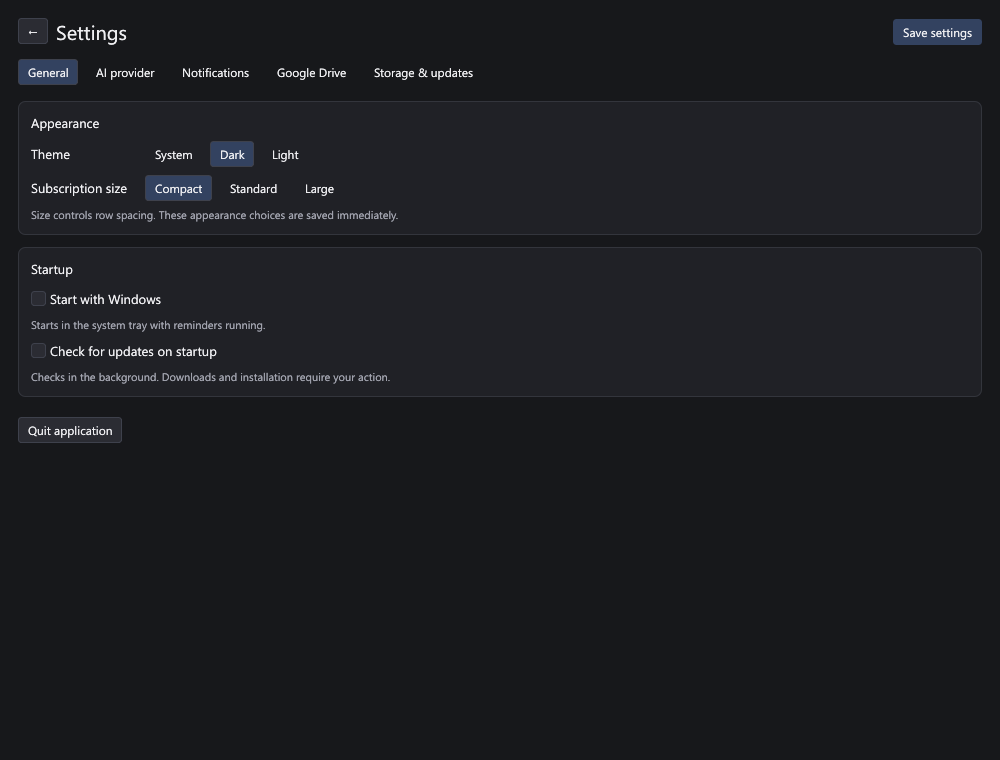
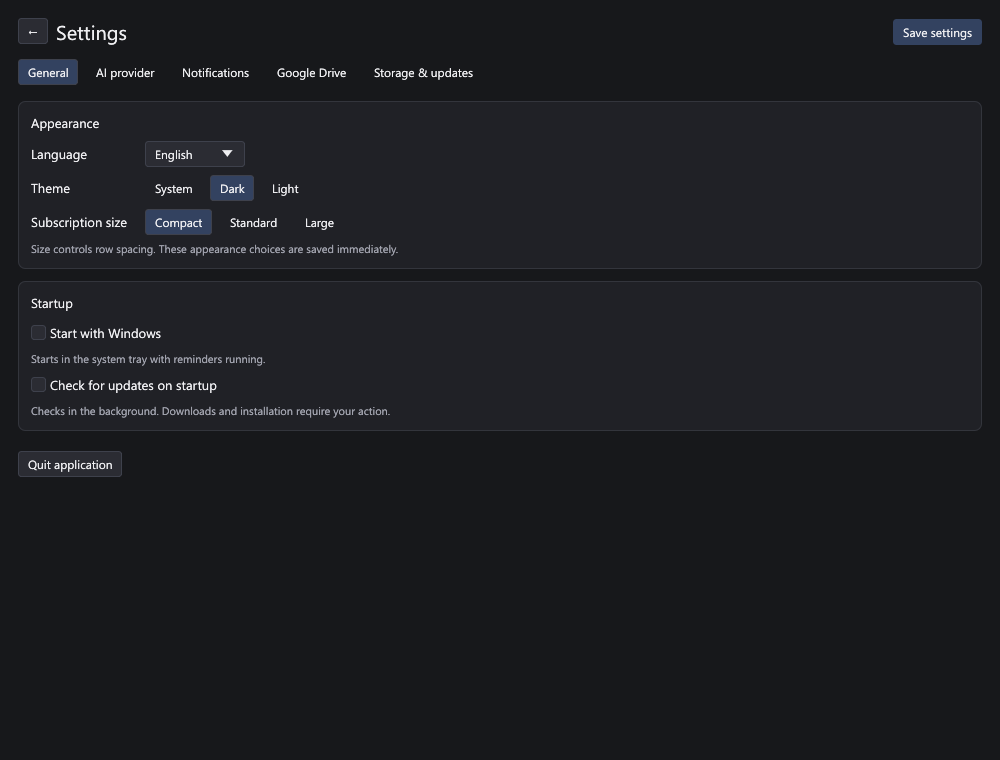
Prepare v0.6.0 notes with verified localized screenshots and lifecycle evidence

diff --git a/README.md b/README.md
@@ -22,6 +22,7 @@ A small Rust desktop app that keeps subscription expiry dates out of your head. 
 - Check for updates and download, verify, install, and restart from Settings.
 - Render on the CPU and present through Windows GDI, with event-driven redraws and no OpenGL or DirectX context.
 - Choose a neutral Light or Dark theme, or follow Windows with System mode.
+- Use the complete interface in English, Russian, French, German, Spanish, or Italian, including tray actions and reminders.
 
 ## Compact workspace
 
@@ -31,7 +32,7 @@ Settings are divided into **General**, **AI provider**, **Notifications**, **Goo
 
 ## Getting started
 
-1. Download `SubscriptionsReminder-v0.5.0.exe` from [Releases](https://github.com/siarheisinelnikau/subscriptions-reminder/releases).
+1. Download `SubscriptionsReminder-v0.6.0.exe` from [Releases](https://github.com/siarheisinelnikau/subscriptions-reminder/releases).
 2. Put it in a writable folder where you plan to keep it, then launch it.
 3. Click **Add subscription**. Enter its name, expiry date (`YYYY-MM-DD`), and reminder lead time.
 4. In **Settings → General**, optionally enable **Start with Windows**. Closing the window keeps the app running; use the tray icon or launch the EXE again to reopen it. **Quit application** in General or the tray menu stops reminders.
@@ -46,11 +47,15 @@ The computer must be on, you must be signed in, and the app must be running for 
 
 Open **Settings → General → Appearance** and choose **System**, **Dark**, or **Light**. The choice applies immediately and is saved on this computer without clicking Save settings. System is the default and follows Windows app appearance through native theme-change events. Theme changes do not change subscriptions or cloud data.
 
+The **Language** menu uses native names: **English**, **Русский**, **Français**, **Deutsch**, **Español**, and **Italiano**. Language changes also apply and save immediately, without restarting. English remains the complete default for new and older settings; unknown language preferences fall back to English. The language choice stays on this computer. Subscription names, notes, currencies, model IDs, and file paths keep their original content. Technical service and operating-system error details may remain in their original language.
+
 The dark palette and typography follow Multi-Monitor Brightness, with Segoe UI at 13 px for body text and 12 px for buttons; the light palette uses white and gray surfaces with contrasting text and status colors. Both themes cover the subscription table, settings, image import, dialogs, and Google Drive screen. The native title bar follows the selected appearance too.
 
 **Subscription size** offers **Compact**, **Standard**, and **Large** rows with 48, 64, and 80 logical pixels of height. The choice changes spacing while retaining the readable text size, applies immediately, and is saved locally. Compact is the default for existing and new settings without a saved size.
 
-![Light theme dashboard with demonstration subscriptions](docs/screenshots/theme-light.png)
+![German interface in Light theme with original demonstration subscription names](docs/screenshots/theme-light.png)
+
+![Russian General settings with immediate language and theme choices](docs/screenshots/language-russian.png)
 
 ## Settings and Telegram
 
@@ -142,7 +147,7 @@ The packaged EXE and `SHA256SUMS.txt` appear in `dist/`. The MSVC C runtime is s
 For isolated UI testing, use a separate local settings directory:
 
 ```powershell
-./dist/SubscriptionsReminder-v0.5.0.exe --data-dir ./target/manual-test --demo
+./dist/SubscriptionsReminder-v0.6.0.exe --data-dir ./target/manual-test --demo
 ```
 
 `--demo` inserts twelve sample subscriptions into an empty data store and disables automatic update checks and reminder notifications for that demo store. `--background` starts with the main window hidden. Instances share one window and monitor per settings directory.
@@ -150,13 +155,13 @@ For isolated UI testing, use a separate local settings directory:
 The opt-in native desktop regressions exercise the packaged EXE, actual window handles, and tray callback dispatch on an interactive Windows desktop:
 
 ```powershell
-$env:SUBSCRIPTIONS_GUI_EXE = (Resolve-Path ./dist/SubscriptionsReminder-v0.5.0.exe).Path
+$env:SUBSCRIPTIONS_GUI_EXE = (Resolve-Path ./dist/SubscriptionsReminder-v0.6.0.exe).Path
 cargo test --locked --test desktop -- --ignored --nocapture --test-threads=1
 ```
 
 Set `SUBSCRIPTIONS_RENDER_TRACE` to a local JSONL file to collect frame timings and counts. Batches are written outside the UI thread and contain performance measurements only. Tracing is disabled by default.
 
-`--image PATH` opens an image in the import view. Add `--recognize` to start recognition using the saved AI connection. For cursor-free documentation screenshots, `--capture-dir PATH` captures the actual subscription table, all five Settings tabs, image import, and the subscription editor, then exits. When recognition is active, the import capture waits for its result and saves a local `recognition.json` report alongside the PNGs.
+`--image PATH` opens an image in the import view. Add `--recognize` to start recognition using the saved AI connection. For cursor-free documentation screenshots, `--capture-dir PATH --demo --data-dir ISOLATED_PATH` captures the actual subscription table, all five Settings tabs, image import, and the subscription editor, then exits. Capture mode requires an explicit isolated demo directory and disables update checks, notifications, AI requests, and Google Drive for that run. Optional `--capture-language en|ru|fr|de|es|it` and `--capture-theme system|light|dark` select representative localized states without changing ordinary settings.
 
 The Windows workflow checks formatting, runs tests and Clippy, builds the EXE, and packages checksums. On `main`, a package version without a published release is published with `docs/releases/vVERSION.md` as its description. Existing published releases are never modified. Review and update the release notes before increasing the package version.
 

diff --git a/docs/verification.md b/docs/verification.md
@@ -66,3 +66,24 @@ All nine final EXE icon resources were decoded, checked for nonblank alpha/trans
 ![Window and taskbar icon handles matching executable resources](screenshots/icon-assignment.png)
 
 ![Production tray resource loaded with the native small-icon metric](screenshots/tray-metric.png)
+
+## v0.6.0 localization and appearance (2026-11-01)
+
+The six-language catalog contains 236 explicit messages, with English as the complete default and fallback. All 42 Rust tests passed with `cargo test --locked --offline --all-targets`; the three opt-in desktop input tests remained ignored. New regressions check every explicit UI catalog key, nonempty translations and interpolation slots, unknown/user-data preservation, language serialization, and migration of older settings without losing their theme or startup-update preference. Formatting, all-target Clippy with warnings denied, an optimized build, and packaging passed.
+
+The main/settings/import/Drive/editor, tray actions, reminder copy, theme and row-size names, and update controls use explicit lookups. The UI-literal audit leaves only stable widget IDs, product/service names, URLs, extensions, model IDs, and ISO date patterns. Technical service and operating-system error details remain untouched. Saved language and appearance changes request a finite repaint; they introduce no timer or polling loop. Google Drive stores canonical status messages for immediate retranslation.
+
+The final optimized `dist/SubscriptionsReminder-v0.6.0.exe` diagnostic used PID **40548** and exited normally after its finite 16.5-second lifecycle. Source inspection and runtime diagnostics identify **egui CPU software rasterization → softbuffer Win32 GDI**. The selected runtime module query returned only `gdi32.dll` among the checked graphics backends.
+
+| Settled state | Sample | CPU, one core | CPU, machine | Layouts / rasters / presents |
+| --- | --- | --- | --- | --- |
+| Visible idle | 5.00 s | 0.000% | 0.0000% | 0 / 0 / 0 |
+| Minimized | 2.00 s | 0.000% | 0.0000% | 0 / 0 / 0 |
+| Restored idle | 3.00 s | 0.000% | 0.0000% | 0 / 0 / 0 |
+| Hidden | 2.00 s | 0.781% | 0.0391% | 0 / 0 / 0 |
+
+CPU values use quantized Windows process times across 20 logical cores. Hidden and minimized background repaint requests skipped all UI work. Restore produced useful frames before settling. Native icon verification decoded all nine embedded sizes and checked actual assigned 16×16 and 32×32 window icons and the 16×16 production tray-resource handle against this exact diagnostic process. These results do not measure compositor/GPU telemetry, physical tray clicks, or keyboard/input latency.
+
+Bounded production-renderer captures produced all eight real screens at 1000×760 for English/Dark, German/Light, and Russian/Dark. All three final processes exited successfully in under one second each, with separate disposable demo stores and updates, notifications, AI, and Drive requests disabled. Capture windows stay inactive, skip the taskbar, and reject external input. The shared diagnostic mutex prevented overlap with other projects' visible tests.
+
+Actual primary/settings PNGs were inspected in those languages and themes, with representative editor, Drive, and image-import screens. The review found wrapping Russian status badges in fixed-height rows; shorter copy and truncation with a full-text tooltip corrected it, and the affected primary views were recaptured. The README main, General settings, editor, Light theme, and Russian settings images come from the final executable. Existing unchanged populated image-import captures remain labeled demonstration data. French, Spanish, and Italian have complete catalog/placeholder coverage but did not receive a separate screenshot review in this run. Mouse-driven language/theme switching, physical tray behavior, account-backed Google/Telegram/AI requests, and an updater installation round-trip were not exercised.

diff --git a/docs/releases/v0.6.0.md b/docs/releases/v0.6.0.md
@@ -1,0 +1,34 @@
+Subscriptions Reminder v0.6.0 adds a six-language interface and a compact workspace with instant language and appearance choices. This release includes the changes since the preceding published v0.4.2 release; v0.5.0 was a local development milestone.
+
+### Added
+
+- Choose English, Russian, French, German, Spanish, or Italian in **Settings → General → Appearance → Language**. Native language names make the menu recognizable in every locale.
+- Translate the subscription list, search and filters, editor and delete dialog, settings, AI image import, Google Drive connection and conflict review, update actions, tray menu, and reminder messages. Names, notes, prices, currency codes, paths, and model IDs retain their original content.
+- Switch **System**, **Light**, and **Dark** appearance without restarting. Language, theme, and row size save immediately and locally. System mode follows native Windows theme events.
+- Choose Compact, Standard, or Large rows while preserving readable text sizes.
+
+### Improved
+
+- Replace large subscription cards with a full-width table, compact summary, and aligned pricing, expiry, status, and actions. Search and attention/paused filters stay directly accessible, and large lists construct only visible rows.
+- Keep Renew and Edit on each row, with Pause/Resume and Delete in its menu. Give translated action labels more horizontal room.
+- Group General, AI provider, Notifications, Google Drive, and Storage & updates in one Settings surface. Image review uses the available width with a collapsible source image.
+- Reuse the shared portable updater for release discovery, progress, checksum and executable validation, installation, rollback, and restart. Preserve the saved startup-check opt-out and existing data-directory restart arguments.
+- Include native application and tray icon sizes for Windows scaling.
+
+### Fixed
+
+- Stop hidden or minimized background repaint wakeups before UI layout as well as rasterization and presentation. Restore and quit commands remain available.
+- Preserve older settings without a language field, including their selected theme and update-check preference. Unknown language values fall back to English.
+- Keep Google Drive status messages in a canonical form so switching the interface language can refresh an existing connection status immediately.
+
+### Download and upgrade
+
+**SubscriptionsReminder-v0.6.0.exe** is one portable Windows 10/11 x64 executable. **SHA256SUMS.txt** contains its checksum. Existing subscription data and encrypted credentials are preserved. The in-app updater supports both current single-architecture asset names and historical `-x64` names.
+
+Google Drive retains the v0.4.2 Testing limitation: only registered Google test users can sign in, and Google may require reconnection after seven days. Real Google-account synchronization, Telegram delivery, physical tray interactions, and a full newer-release installation round-trip require separate account/device verification. Technical service and operating-system error details can remain in their original language.
+
+### Verification
+
+Focused catalog, placeholder, original-data preservation, and settings-migration regressions are included alongside the existing data, reminder, AI HTTP-fixture, synchronization, and updater tests. Current local validation is recorded in [verification notes](../verification.md).
+
+[Changes since v0.4.2](https://github.com/siarheisinelnikau/subscriptions-reminder/compare/v0.4.2...v0.6.0)
